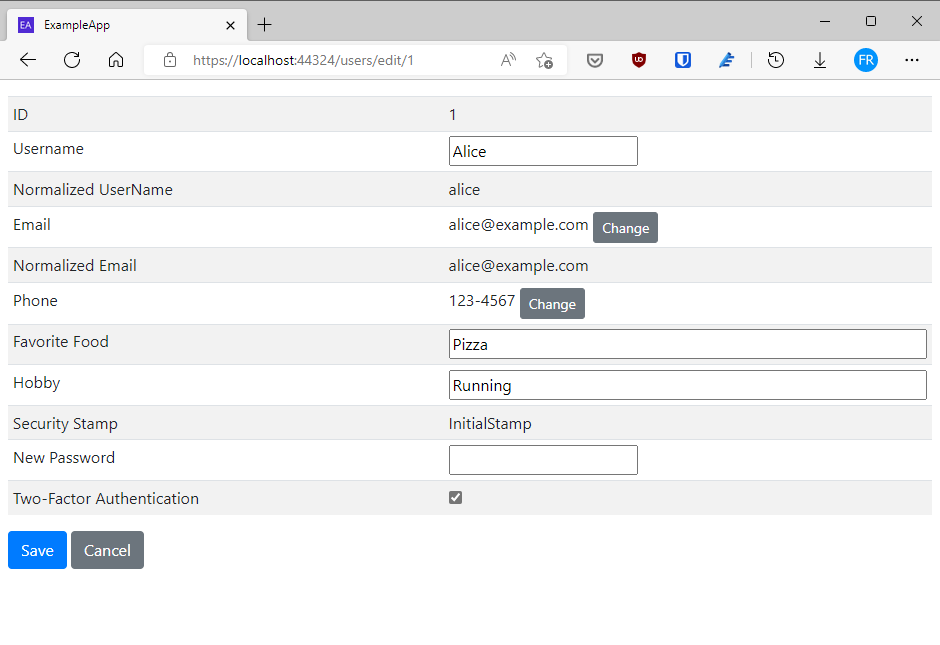
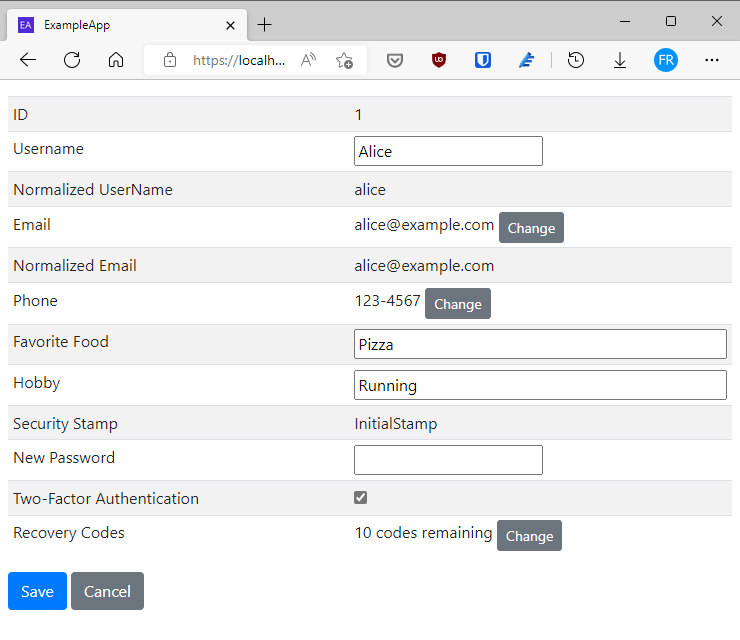
Using Recovery Codes — Managing Recovery Codes.

diff --git a/ExampleApp/Pages/Store/RecoveryCodes.cshtml.cs b/ExampleApp/Pages/Store/RecoveryCodes.cshtml.cs
@@ -1,0 +1,52 @@
+using System.Linq;
+using System.Threading.Tasks;
+using ExampleApp.Identity;
+using ExampleApp.Identity.Store;
+using Microsoft.AspNetCore.Identity;
+using Microsoft.AspNetCore.Mvc;
+using Microsoft.AspNetCore.Mvc.RazorPages;
+
+namespace ExampleApp.Pages.Store
+{
+    public class RecoveryCodesModel : PageModel
+    {
+        private readonly UserManager<AppUser> _userManager;
+        private readonly UserStore _userStore;
+
+        public RecoveryCodesModel(UserManager<AppUser> manager, UserStore userStore)
+        {
+            _userManager = manager;
+            _userStore = userStore;
+        }
+
+        public AppUser AppUser { get; set; }
+
+        public RecoveryCode[] Codes { get; set; }
+
+        public int RemainingCodes { get; set; }
+
+        public async Task OnGet(string id)
+        {
+            AppUser = await _userManager.FindByIdAsync(id);
+
+            if (AppUser is not null)
+            {
+                Codes = (await _userStore.GetCodesAsync(AppUser)).ToArray();
+                
+                RemainingCodes = await _userManager.CountRecoveryCodesAsync(AppUser);
+            }
+        }
+
+        public async Task<ActionResult> OnPostAsync(string id)
+        {
+            AppUser = await _userManager.FindByIdAsync(id);
+            
+            if (AppUser is not null)
+            {
+                await _userManager.GenerateNewTwoFactorRecoveryCodesAsync(AppUser, 10);
+            }
+
+            return RedirectToPage();
+        }
+    }
+}

diff --git a/ExampleApp/README.md b/ExampleApp/README.md
@@ -43,6 +43,9 @@ _Sign in page_
 ![Authenticator page](../Assets/example-app-authenticator-page.png)  
 _Authenticator page_
 
+![Recovery codes page](../Assets/example-app-recovery-codes-page.png)  
+_Recovery codes page_
+
 ## License
 
 [MIT License](../LICENSE)
